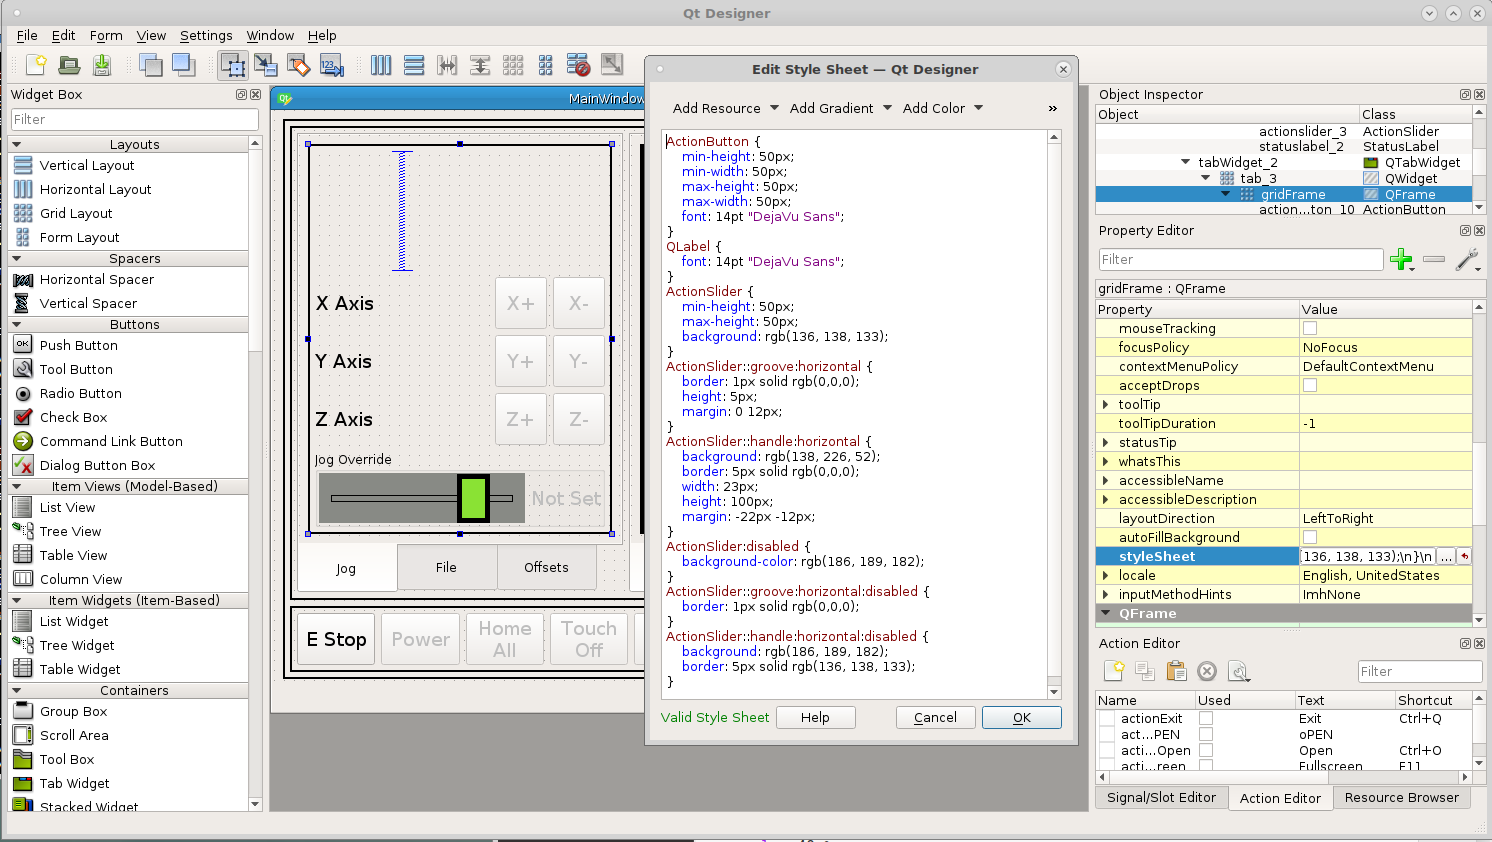
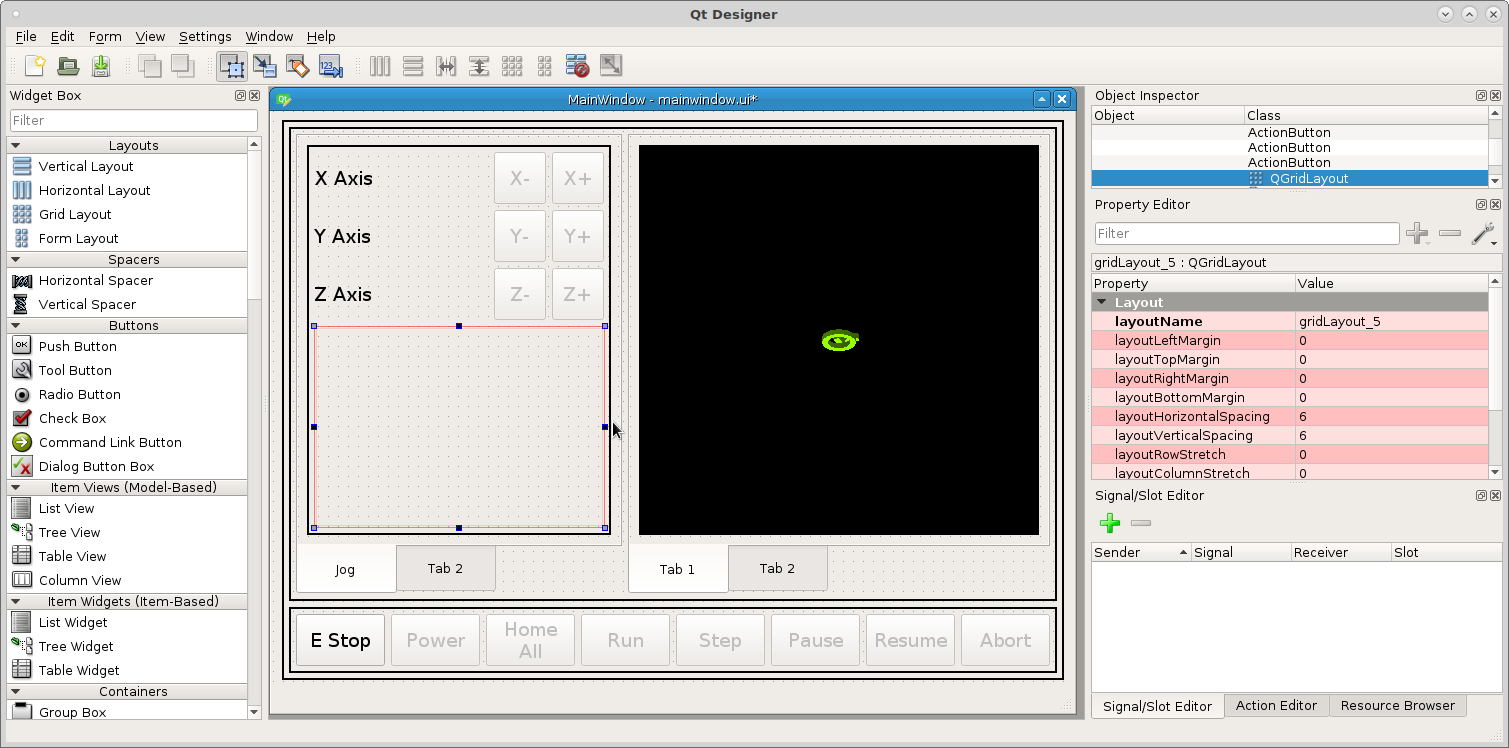
DOC: update images and clean up text

diff --git a/docs/source/tutorials/basic_vcp_04.rst b/docs/source/tutorials/basic_vcp_04.rst
@@ -39,7 +39,7 @@ we could change the labels to be a different font than the buttons.
    :scale: 40 %
 
 Now lets drag some `actionButtons` into the left panel for jogging controls and
-some labels for each axis.
+some standard labels from the `Display Widgets` for each axis.
 
 .. image:: images/vcp1-designer-14.png
    :align: center
@@ -56,6 +56,10 @@ Add the following `actionNames` to the jog buttons.::
     machine.jog.axis:z,neg
 
 Drag a `GcodeBackplot` into the right frame so you can see it move when you jog.
+Right click in the tab and select `Layout in a Grid` so the backplot fills the
+tab.
+
+To change the tab name select the tab widget and change the `current tab name`.
 
 .. image:: images/vcp1-run-06.png
    :align: center
@@ -63,11 +67,19 @@ Drag a `GcodeBackplot` into the right frame so you can see it move when you jog.
 
 Drag a grid layout below the jog buttons in the tab. Drag the edge until it
 fills the tab left to right and morph it into a `QGroupBox` and set the title to
-`Jog Override`. Now we need to make a jog speed slider, drag an `ActionSlider`
-into the group box and put ``machine.jog.set-linear-speed`` in the actionName
-and change orientation to horizontal and set the value at 80. Now add the
-following to the grid stylesheet because we want all the ActionSliders in this
-grid to have the same style.
+`Jog Override`.
+
+.. image:: images/vcp1-designer-15.png
+   :align: center
+   :scale: 40 %
+
+Now we need to make a jog speed slider, drag an `ActionSlider` into the group
+box and change orientation to horizontal and set the value at 80.
+
+Now put ``machine.jog.set-linear-speed`` in the `ActionSlider` actionName.
+
+Now add the following to the grid stylesheet because we want all the
+`Action Sliders` in this frame to have the same style.
 ::
 
     ActionSlider {
@@ -101,10 +113,7 @@ grid to have the same style.
 The first three handle the size, border and enabled colors and the last three
 handle the disabled colors.
 
-We can also add a vertical spacer above the jog buttons to keep everything from
-expanding.
-
-.. image:: images/vcp1-designer-15.png
+.. image:: images/vcp1-designer-16.png
    :align: center
    :scale: 40 %
 
@@ -117,13 +126,13 @@ Now we can see the slider in action.
    :align: center
    :scale: 60 %
 
-Remove the `Vertical Spacer` and add two more grid layouts below the Jog
-Override and morph them into QGroupBoxes. In order for this all to fit in the
-QFrame you need to set the margins and spacings to 1 and we no longer need the
-box. Add ActionSliders in each box and actionNames are
+Add two more grid layouts below the Jog Override and morph them into
+QGroupBoxes. In order for this all to fit in the QFrame you need to set the
+top and bottom margins and vertical spacing to 1 and we no longer need the box
+so that can be removed. Add ActionSliders in each box and actionNames are
 ``machine.feed-override.set`` and ``machine.rapid-override.set``
 
-.. image:: images/vcp1-designer-16.png
+.. image:: images/vcp1-designer-17.png
    :align: center
    :scale: 40 %
 
@@ -135,7 +144,7 @@ the format(change to an integer(channel 0 times 100)) The overrides are 1 = 100%
 so we multiply them by 100 to get a logical number. For the feed override the
 channel is ``status:feedrate`` and the expression is the same as rapid.
 
-.. image:: images/vcp1-designer-17.png
+.. image:: images/vcp1-designer-18.png
    :align: center
    :scale: 40 %
 
@@ -145,11 +154,11 @@ Now when we run the VCP we can see the percent of overrides change.
    :align: center
    :scale: 60 %
 
-Add another rule to each status label enable with the channel ``status:enabled``
-and the expression is ``ch[0]``. This gives us another clue that the slider is
-disabled until the power is on.
+Add another rule to each status label with the property `Enabled` and the
+channel is ``status:enabled`` and the expression is ``ch[0]``. This gives us
+another clue that the slider is disabled until the power is on.
 
-.. image:: images/vcp1-designer-18.png
+.. image:: images/vcp1-designer-19.png
    :align: center
    :scale: 40 %
 

diff --git a/docs/source/tutorials/basic_vcp_03.rst b/docs/source/tutorials/basic_vcp_03.rst
@@ -3,9 +3,10 @@ Machine Controls
 ================
 
 We want all buttons in the bottom frame to have a minimum height and width of 50
-pixels and the font size to be 14pt so in the stylesheet for the frame put the following.::
+pixels and the font size to be 14pt so in the stylesheet for the bottom frame
+put the following.::
 
-    .ActionButton {
+    ActionButton {
         min-height: 50px;
         min-width: 50px;
         font: 14pt "DejaVu Sans";
@@ -49,7 +50,8 @@ Notice that 'Home\\nAll' has a new line character `\\n` in it.
    :align: center
    :scale: 40 %
 
-The second rule will have the same channels with the following expression::
+The second rule will have the same channels but the property will be for the
+`Style Sheet` with the following expression::
 
     "background-color:rgb(138, 226, 52)" if ch[0] and ch[1] and ch[2] else ''
 

diff --git a/docs/source/tutorials/basic_vcp_02.rst b/docs/source/tutorials/basic_vcp_02.rst
@@ -12,9 +12,10 @@ it and morph into a `QFrame`.
    :align: center
    :scale: 40 %
 
-Now change the Frame Shape to a `Box` and set the line width to 2 and change the
-margins (left, right, top and bottom) to 5, this makes it easier to see the blue
-line when dragging other layouts into the frame.
+In the `Property Editor` on the right side change the Frame Shape to a `Box` and
+set the line width to 2 and change the margins (left, right, top and bottom)
+to 5, this makes it easier to see the blue line when dragging other layouts into
+the frame.
 
 .. image:: images/vcp1-designer-03.png
    :align: center

diff --git a/docs/source/tutorials/basic_vcp_01.rst b/docs/source/tutorials/basic_vcp_01.rst
@@ -2,6 +2,9 @@
 Clone and Prepare
 =================
 
+Before cloning you should have installed QtPyVCP as shown on the
+:doc:`../quick_start` page.
+
 To start with you should clone the `VCP Template`. It has all the basic
 structure needed to build a VCP. In a terminal::
 
